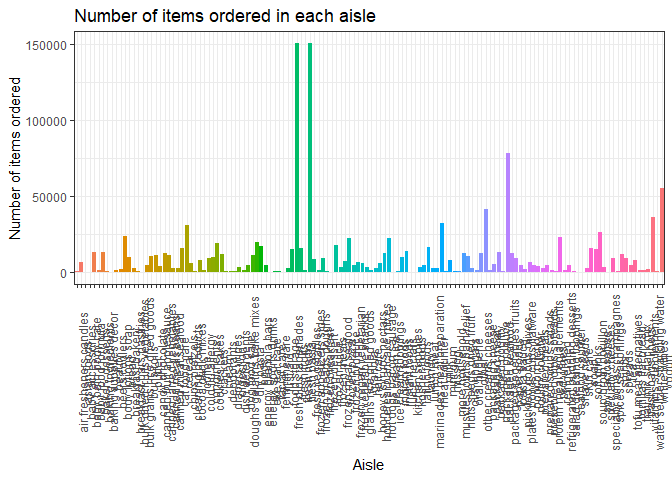
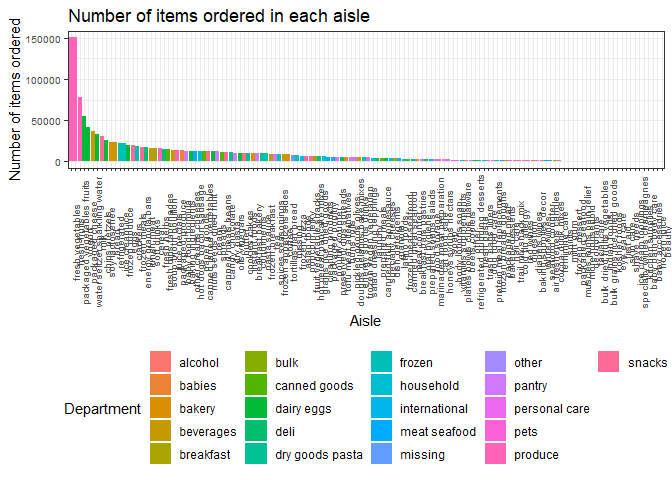
Adust the plot for Q2 in problem 2. Reorder and fill by department. Add comments.

diff --git a/p8105_hw3_jy2944.md b/p8105_hw3_jy2944.md
@@ -264,15 +264,18 @@ There are 134 distinct aisles. The above table shows the top 5 most popular aisl
 
 ``` r
 instacart_data %>% 
-  group_by(aisle_id, aisle) %>% 
+  # group by department and aisle
+  group_by(department, aisle) %>% 
   summarise(number = n()) %>% 
-  mutate(aisle = forcats::fct_reorder(aisle, number)) %>%
-  ggplot(aes(x = aisle, y = number, fill = aisle)) +
+  # barplot
+  # reorder the aisle by number of items
+  ggplot(aes(x = reorder(aisle, -number), y = number, fill = department)) +
   geom_bar(stat = "identity") +
   labs(
     title = "Number of items ordered in each aisle",
     x = "Aisle",
-    y = "Number of items ordered"
+    y = "Number of items ordered",
+    fill = "Department"
   ) +
   viridis::scale_color_viridis(
     discrete = TRUE,
@@ -280,13 +283,14 @@ instacart_data %>%
     ) +
   theme(
     axis.text.x = element_text(angle = 90),
-    legend.position = "none"
+    axis.text = element_text(size = 7.5),
+    legend.position = "bottom"
     )
 ```
 
 ![](p8105_hw3_jy2944_files/figure-markdown_github/p2_2-1.png)
 
-Comments?
+From the above barplot, we can find that the three most popular aisles are "fresh vegetables", "fresh fruits", and "packaged vegetable fruits", and they all belong to the department "Produce". "Yogurt" and "packaged cheese" are the fourth and fifth most popular aisles, and both of them belong to the department "Dairy eggs".
 
 *3. Make a table showing the most popular item in each of the aisles “baking ingredients”, “dog food care”, and “packaged vegetables fruits”.*
 
@@ -296,17 +300,20 @@ instacart_data %>%
   filter(aisle == "baking ingredients" | aisle == "dog food care" | aisle == "packaged vegetables fruits") %>%
   group_by(aisle, product_name) %>% 
   summarize(number = n()) %>% 
+  arrange(desc(number)) %>%
   # display the most popular item in each aisle
-  top_n(1, number) %>% 
+  top_n(1) %>% 
   rename("Aisle" = aisle, "Product Name" = product_name, "Sale Volume" = number) %>%
   knitr::kable()
 ```
 
+    ## Selecting by number
+
 | Aisle                      | Product Name                                  |  Sale Volume|
 |:---------------------------|:----------------------------------------------|------------:|
+| packaged vegetables fruits | Organic Baby Spinach                          |         9784|
 | baking ingredients         | Light Brown Sugar                             |          499|
 | dog food care              | Snack Sticks Chicken & Rice Recipe Dog Treats |           30|
-| packaged vegetables fruits | Organic Baby Spinach                          |         9784|
 
 "Light Brown Sugar" is the most popular item in the aisle "Baking Ingredients" with a sale volume of 499 packets. "Snack Sticks Chicken & Rice Recipe Dog Treats" is the most popular item in the aisle "Dog Food Care" with a sale volume of 30 bags. In the aisle “Packaged Vegetables fruits”, the most popular item is "Organic Baby Spinach" and it reaches a sale of 9784 packages.
 
